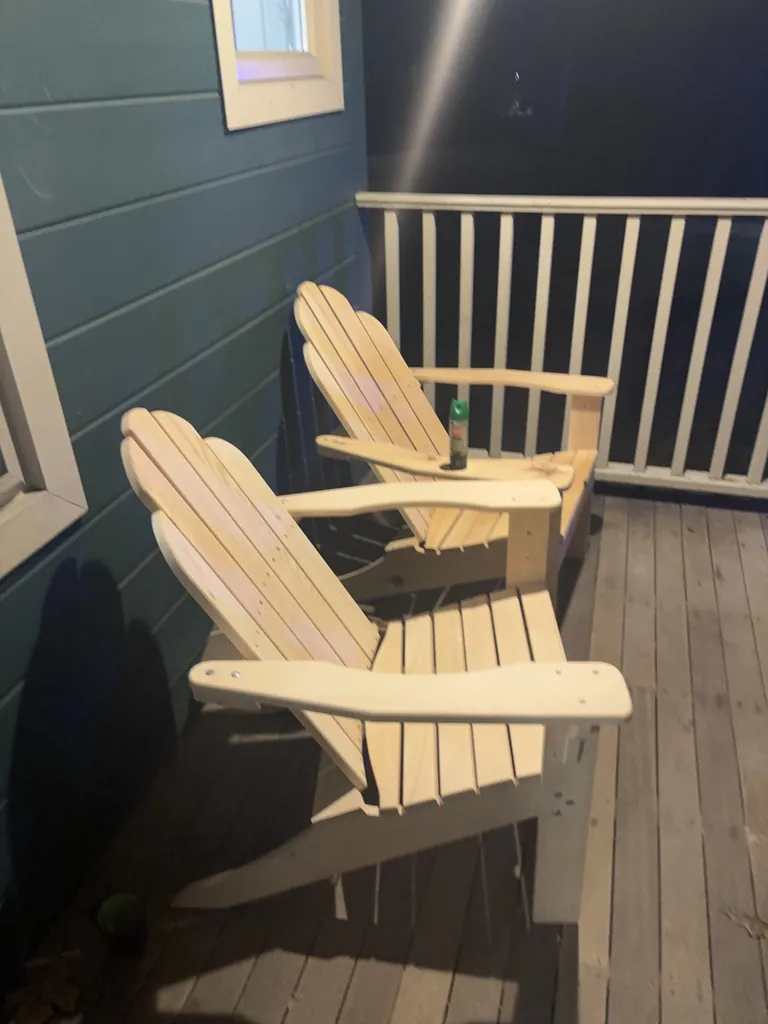
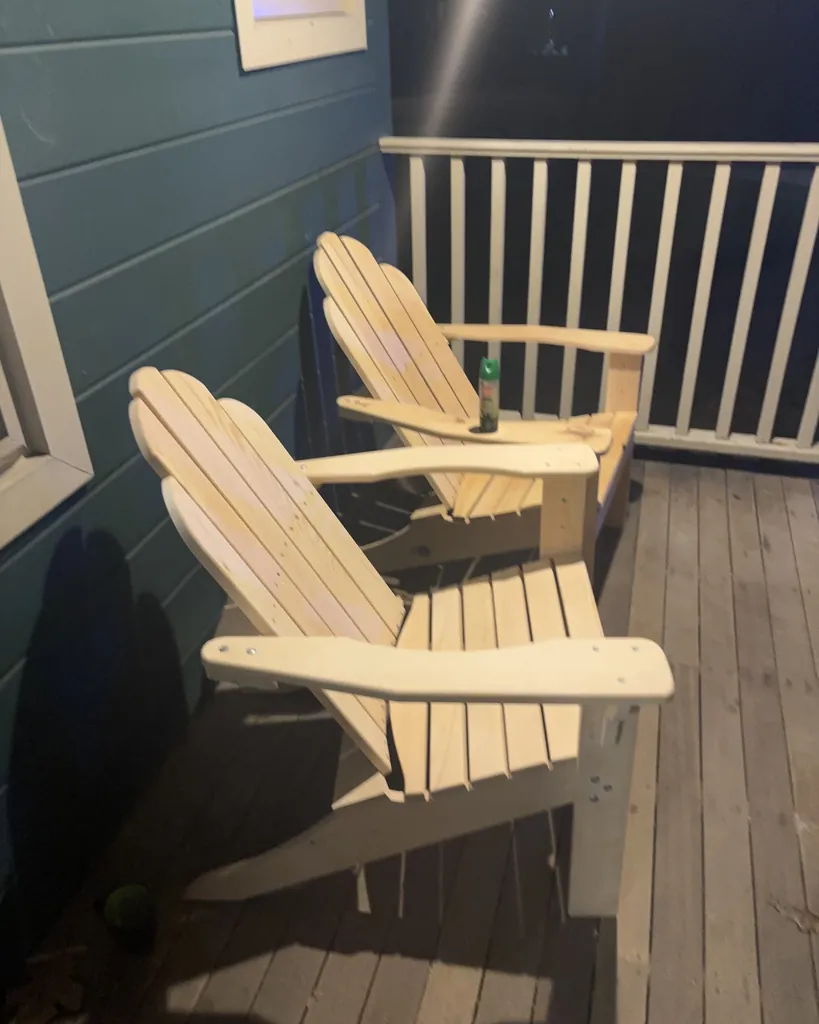
photos, better

diff --git a/components/ring/projects.js b/components/ring/projects.js
@@ -49,7 +49,7 @@ export const PROJECTS = [
     media: [
       {
         src: "adirondack-2-1.webp",
-        shape: "port",
+        shape: "land",
         caption: "Placeholder caption",
       },
     ],
@@ -105,7 +105,7 @@ export const PROJECTS = [
     media: [
       {
         src: "cuttingboards-1.webp",
-        shape: "port",
+        shape: "land",
         caption: "Placeholder caption",
       },
       {
@@ -166,7 +166,7 @@ export const PROJECTS = [
     media: [
       {
         src: "notebook-1.webp",
-        shape: "port",
+        shape: "land",
         caption: "Placeholder caption",
       },
     ],
